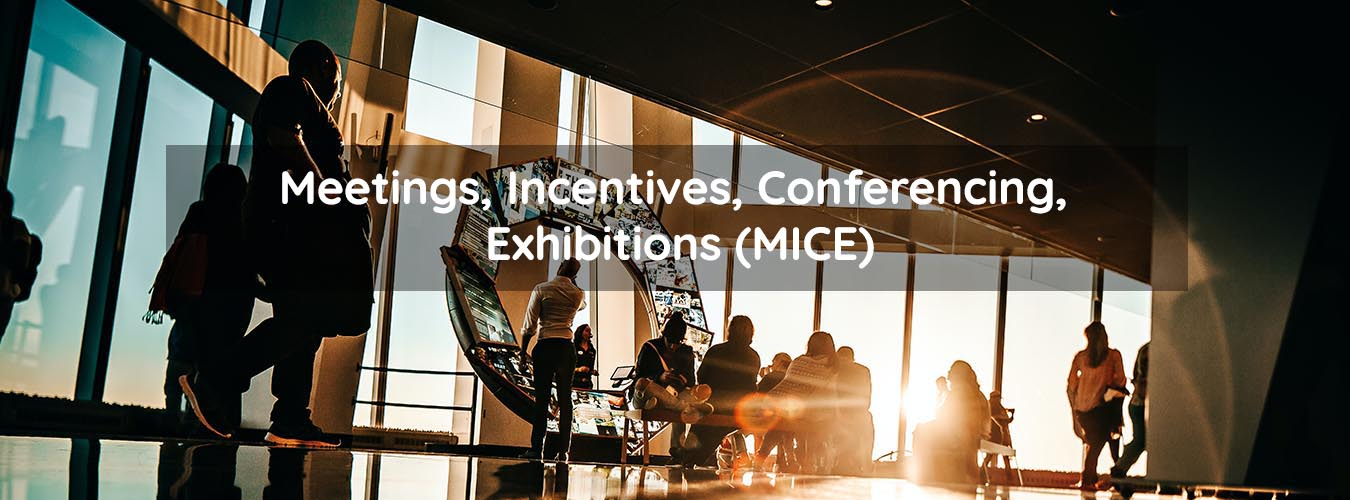
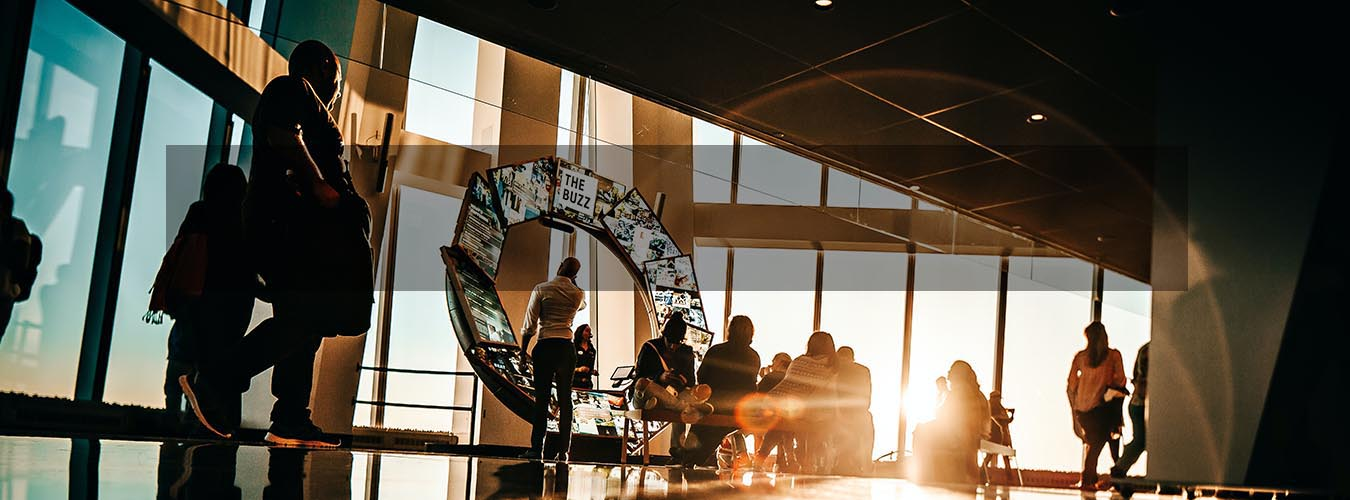
no message

Changed region(s): [[0.1867, 0.33, 0.8089, 0.42], [0.3422, 0.45, 0.6533, 0.54]]

diff --git a/index.html b/index.html
@@ -370,7 +370,7 @@
 
           <div class="owl-slide d-flex align-items-center cover" style="background-image: url(images/banner/3.jpg);">
             <div class="owl-slide-text tourz-search-1">
-                <h1></h1>
+                <h1>MICE</h1>
             </div>
         </div><!--/owl-slide-->
       
